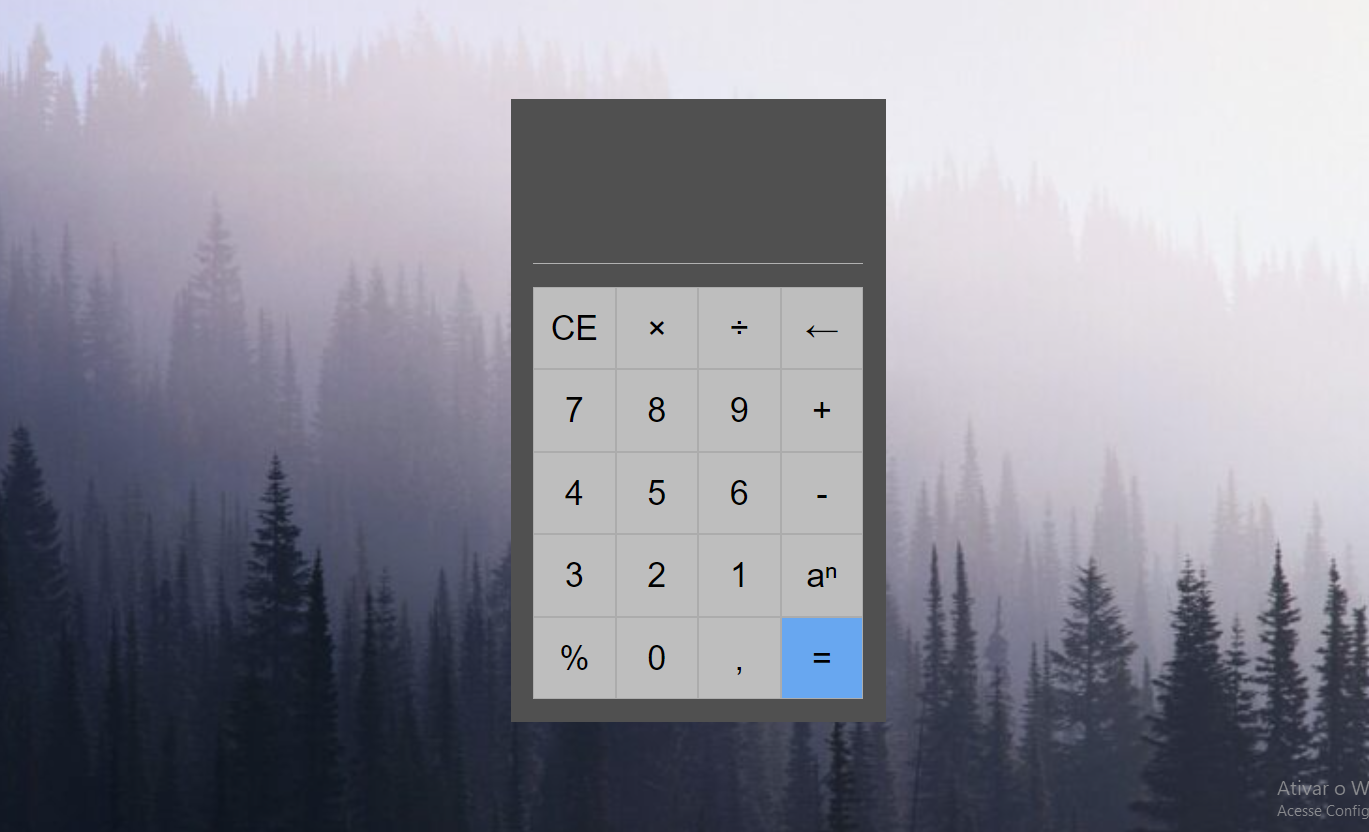
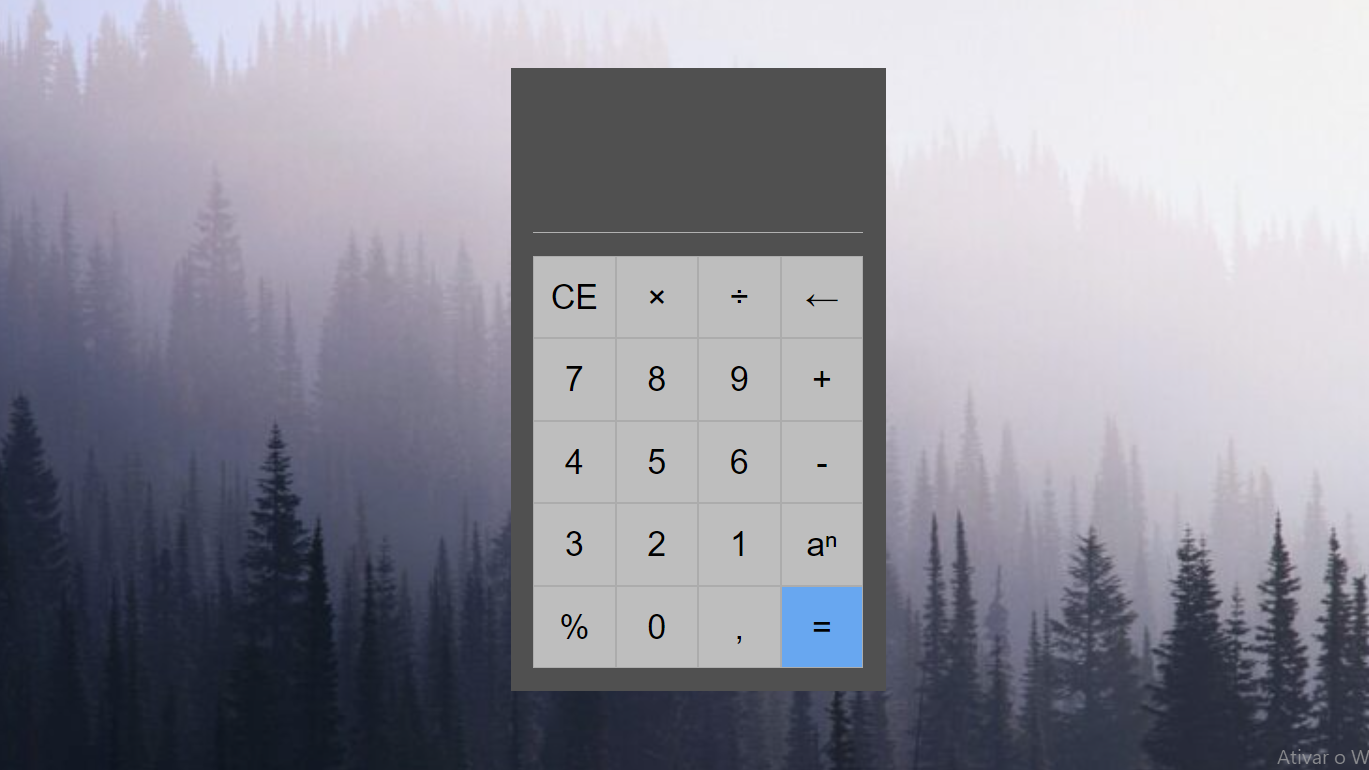
Add files via upload

diff --git a/assets/css/styles.css b/assets/css/styles.css
@@ -14,10 +14,10 @@
 /* Estilo para o corpo (body) da página */
 body {
     font-family: 'Roboto', sans-serif, 'Ubuntu', sans-serif;
-    background-color:  var(--bg-color);
+    background-color: var(--bg-color);
 }
 
-body > * {
+body>* {
     width: 100%;
     margin: 0 auto;
 }
@@ -28,7 +28,7 @@ section>h1,
 #cv,
 .skills,
 .skill-headers,
-#projects-grid,
+#projects-container,
 .projects,
 .project-btns-container,
 #contacts div a {
@@ -69,7 +69,8 @@ section>h1,
     justify-content: center;
 }
 
-#about-me-section, .projects {
+#about-me-section,
+.projects {
     text-align: center;
 }
 
@@ -105,12 +106,6 @@ section>h1,
     background-color: var(--primary-color);
 }
 
-#projects-grid {
-    grid-column: auto;
-    flex-wrap: wrap;
-    justify-content: center;
-}
-
 .projects {
     transition: 0.5s;
     background-size: cover;
@@ -123,18 +118,18 @@ section>h1,
 }
 
 #calculator-project {
-    background-image: linear-gradient(rgba(0, 0, 0, 0.29), rgba(0, 0, 0, 0.816)),
+    background-image: linear-gradient(rgba(0, 0, 0, 0.29), rgba(0, 0, 0, 0.953)),
         url("../images/project_card_background/calculadora.png");
 }
 
 #timer-project {
-    background-image: linear-gradient(rgba(0, 0, 0, 0.29), rgba(0, 0, 0, 0.816)),
+    background-image: linear-gradient(rgba(0, 0, 0, 0.29), rgba(0, 0, 0, 0.889)),
         url("../images/project_card_background/cronometro.png");
 }
 
 #to-do-list-project {
-    background-image: linear-gradient(rgba(0, 0, 0, 0.29), rgba(0, 0, 0, 0.816)),
-        url("../images/project_card_background/cronometro.png");
+    background-image: linear-gradient(rgba(0, 0, 0, 0.29), rgba(0, 0, 0, 0.882)),
+        url("../images/project_card_background/listadetarefa.png");
 
 }
 
@@ -251,17 +246,12 @@ section>h1,
 
     /* Define a margem superior para as seções */
     section {
-        margin: 80px 0
+        margin: 90px 0
     }
 
     section>h1 {
         font-size: 30px;
         margin: 30px 0;
-    }
-
-    /* Configura a seção "home" para exibir seus elementos em uma coluna */
-    #home {
-        text-align: center;
     }
 
     #heading {
@@ -285,11 +275,9 @@ section>h1,
         margin-bottom: 40px;
         width: 100%;
         gap: 40px;
-        align-items: center;
     }
 
     .skill-headers {
-        justify-content: space-between;
         margin-bottom: 10px;
     }
 
@@ -301,16 +289,16 @@ section>h1,
         height: 25px;
     }
 
-    #projects-grid {
-        gap: 20px;
+    #projects-container {
+        display: block;
+        gap: 10px
+    
     }
 
     .projects {
-        width: 250px;
-        height: 150px;
-        margin: 0 auto;
+      height: 100%;
     }
-
+   
     /* Ajusta o tamanho da imagem dentro do contêiner de informações de contato */
     #contacts div img {
         width: 80px;
@@ -326,15 +314,15 @@ section>h1,
         padding: 0 50px;
     }
 
-    body > * {
+    body>* {
         width: 100%;
         margin: 0 auto;
     }
-    
+
     header {
         margin-top: 10px;
     }
-    
+
     /* Define a cor de fundo ao passar o mouse sobre itens do menu */
     .menu-item:hover {
         background-color: rgba(23, 70, 158, 0.5);
@@ -345,14 +333,14 @@ section>h1,
         display: none;
     }
 
-    section > h1 {
+    section>h1 {
         font-size: 45px;
         margin: 40px 0;
     }
 
     /* Configura a seção "home" para exibir seus elementos em uma coluna */
     #home {
-      margin: 50px 0;
+        margin: 50px 0;
         height: 100vw;
         width: 60%;
 
@@ -372,14 +360,11 @@ section>h1,
     /* Ajusta o preenchimento e o tamanho da fonte para o botão de currículo (cv) */
     #cv {
         padding: 20px;
-        font-size: 2.0em;
     }
 
     /* Ajusta o estilo da imagem de perfil */
     #img-perfil {
-        display: flex;
-        width: 200px;
-        margin: 0 auto;
+        width: 150px;
     }
 
 
@@ -409,13 +394,13 @@ section>h1,
         height: 25px;
     }
 
-    #projects-grid {
-        gap: 20px;
+    section {
+        margin-top: 50px;
     }
 
+
     .projects {
-        width: 400px;
-        height: 200px;
+      width: 100%;
     }
 
     /* Ajusta o tamanho da imagem dentro do contêiner de informações de contato */
@@ -426,20 +411,21 @@ section>h1,
 
 /* Media query para telas com largura mínima de 1200px */
 @media (min-width: 1024px) {
+
     /* Ajusta o tamanho da fonte para o corpo */
     body {
         font-size: 18px;
         padding: 0 80px;
     }
 
-    body > * {
+    body>* {
         margin: 0 auto;
     }
 
     header {
         margin-top: 10px;
     }
-    
+
     #menu {
         display: flex;
         gap: 20px;
@@ -463,15 +449,18 @@ section>h1,
         display: none;
     }
 
-    section > h1 {
+    section {
+        margin-top: 50px;
+    }
+
+    section>h1 {
         font-size: 45px;
         margin: 60px 0;
     }
 
     /* Configura a seção "home" para exibir seus elementos em uma coluna */
     #home {
-        width: 50%;
-
+        width: 55%;
     }
 
     #heading {
@@ -487,20 +476,12 @@ section>h1,
 
     /* Ajusta o preenchimento e o tamanho da fonte para o botão de currículo (cv) */
     #cv {
-        padding: 20px;
-        font-size: 2.0em;
+        padding: 30px;
     }
 
     /* Ajusta o estilo da imagem de perfil */
     #img-perfil {
-        display: flex;
         width: 200px;
-        margin: 0 auto;
-    }
-
-    /* Ajusta o tamanho da fonte para o cabeçalho nível 2 (h2) */
-    h2 {
-        font-size: 1.8em;
     }
 
     .image-border {
@@ -516,8 +497,6 @@ section>h1,
     }
 
     .skill-headers {
-        display: flex;
-        justify-content: space-between;
         margin-bottom: 10px;
     }
 
@@ -529,13 +508,15 @@ section>h1,
         height: 25px;
     }
 
-    #projects-grid {
-        gap: 20px;
+    #projects-container {
+        display: grid;
+        grid-template-columns: 1fr 1fr 1fr;
+        gap: 30px
     }
 
     .projects {
-        width: 400px;
-        height: 200px;
+        width: 100%;
+        height: 200%
     }
 
     /* Ajusta o tamanho da imagem dentro do contêiner de informações de contato */

diff --git a/index.html b/index.html
@@ -110,7 +110,7 @@
 
     <section>
         <h1>Projetos</h1>
-        <div id="projects-grid">
+        <div id="projects-container">
             <div id="calculator-project" class="projects">
                 <div>
                     <h1>Calculadora</h1>
